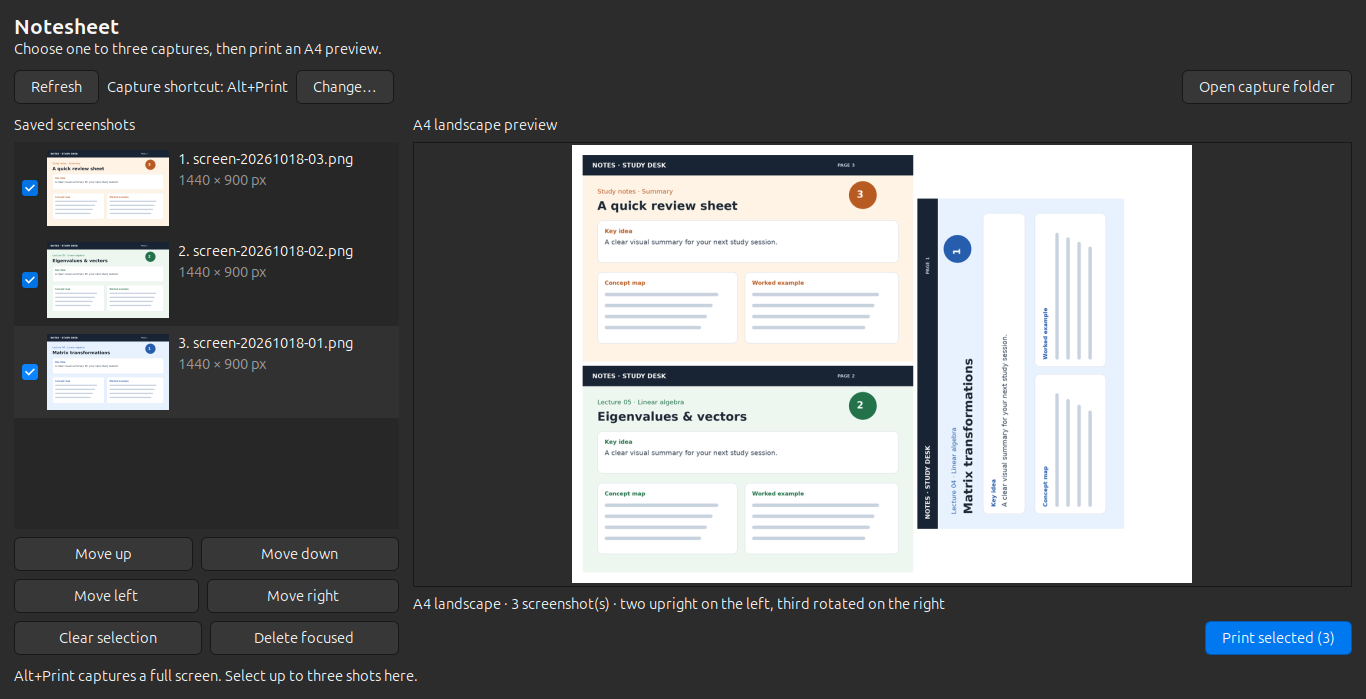
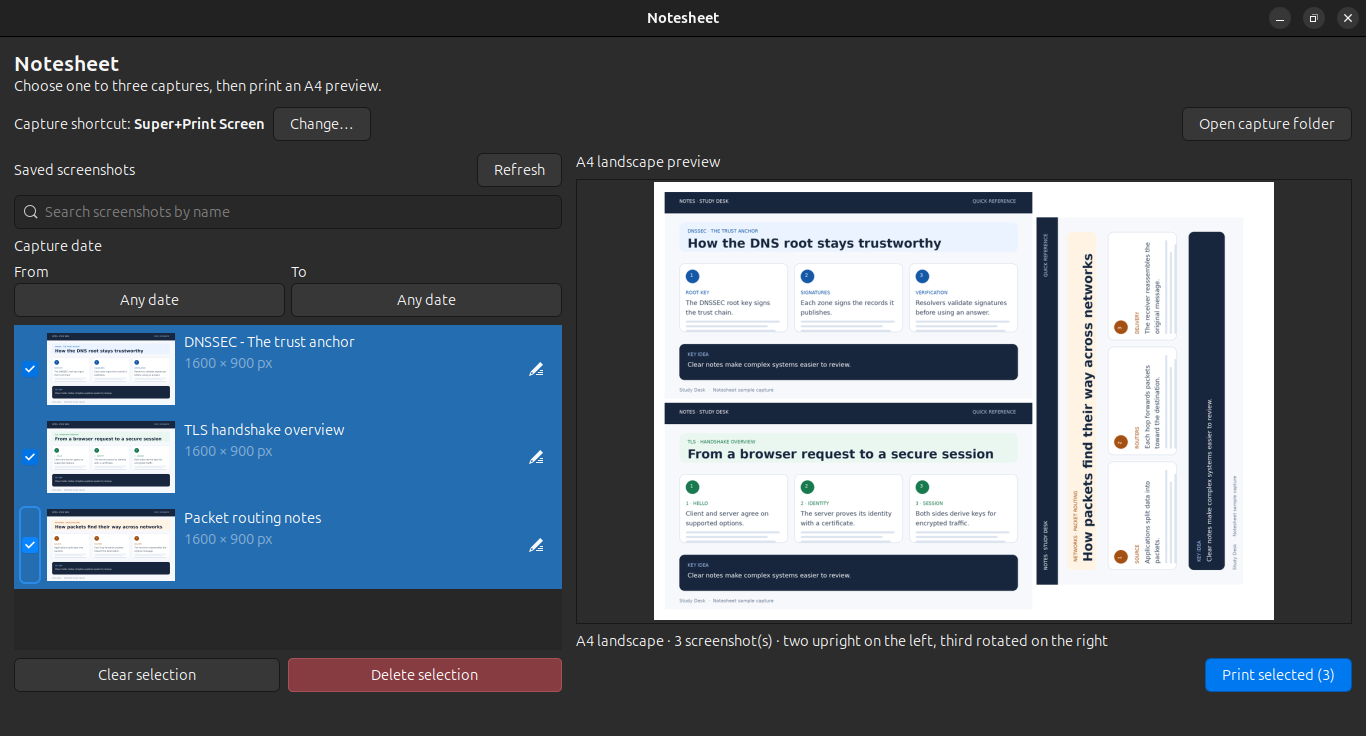
Improve screenshot library selection controls

diff --git a/notesheet.py b/notesheet.py
@@ -528,7 +528,7 @@ def run_ui() -> int:
             self.search_entry = Gtk.SearchEntry()
             self.search_entry.set_placeholder_text("Search screenshots by name")
             self.search_entry.connect(
-                "search-changed", lambda *_: self.listbox.invalidate_filter()
+                "search-changed", lambda *_: self.refresh_library(force=True)
             )
             library.pack_start(self.search_entry, False, False, 0)
 
@@ -636,6 +636,7 @@ def run_ui() -> int:
             library.pack_start(scroll, True, True, 0)
 
             library_actions = Gtk.Box(orientation=Gtk.Orientation.HORIZONTAL, spacing=8)
+            library_actions.set_margin_top(12)
             library.pack_start(library_actions, False, False, 0)
             clear_button = Gtk.Button(label="Clear selection")
             clear_button.connect("clicked", self.clear_selection)
@@ -684,7 +685,19 @@ def run_ui() -> int:
         def list_capture_paths(self) -> list[Path]:
             if not CAPTURES_DIR.exists():
                 return []
-            paths = list(CAPTURES_DIR.glob("screen-*.png"))
+            paths = sorted(
+                CAPTURES_DIR.glob("screen-*.png"),
+                key=lambda path: (capture_datetime(path), path.stat().st_mtime_ns),
+                reverse=True,
+            )
+            has_filter = (
+                bool(self.search_entry.get_text().strip())
+                or self.date_from is not None
+                or self.date_to is not None
+            )
+            if not has_filter:
+                return paths
+
             paths_by_text = {str(path): path for path in paths}
             selected = [
                 paths_by_text[path_text]
@@ -692,15 +705,15 @@ def run_ui() -> int:
                 if path_text in paths_by_text
             ]
             selected_text = {str(path) for path in selected}
-            remaining = sorted(
-                (path for path in paths if str(path) not in selected_text),
-                key=lambda path: (capture_datetime(path), path.stat().st_mtime_ns),
-                reverse=True,
-            )
-            return selected + remaining
+            return selected + [path for path in paths if str(path) not in selected_text]
 
         def inventory_key(self, paths: list[Path]) -> tuple:
-            return tuple((str(path), path.stat().st_mtime_ns, path.stat().st_size) for path in paths)
+            return tuple(
+                sorted(
+                    (str(path), path.stat().st_mtime_ns, path.stat().st_size)
+                    for path in paths
+                )
+            )
 
         def filter_capture_row(self, row, *_args) -> bool:
             query = self.search_entry.get_text().strip().casefold()
@@ -757,24 +770,20 @@ def run_ui() -> int:
             if self.date_from and self.date_to and self.date_from > self.date_to:
                 self.date_from, self.date_to = self.date_to, self.date_from
             self.update_date_filter_label()
-            self.listbox.invalidate_filter()
+            self.refresh_library(force=True)
             popover.popdown()
 
         def clear_date_filter(self, *_args) -> None:
             self.date_from = None
             self.date_to = None
             self.update_date_filter_label()
-            self.listbox.invalidate_filter()
+            self.refresh_library(force=True)
             for popover in self.date_picker_popovers.values():
                 popover.popdown()
 
         def periodic_refresh(self) -> bool:
             self.refresh_library()
             return True
-
-        def refresh_library_after_selection(self) -> bool:
-            self.refresh_library(force=True)
-            return False
 
         def refresh_library(self, force: bool = False) -> None:
             paths = self.list_capture_paths()
@@ -991,7 +1000,6 @@ def run_ui() -> int:
                     break
             self.listbox.invalidate_filter()
             self.update_preview()
-            GLib.idle_add(self.refresh_library_after_selection)
 
         def update_shortcut_label(self) -> None:
             try:

diff --git a/README.md b/README.md
@@ -1,12 +1,14 @@
 # Notesheet
 
-Notesheet captures full-screen images, lets you choose and order up to three, previews their layout on landscape A4, and prints through CUPS or saves a PDF.
+Notesheet captures full-screen images, lets you select up to three, previews their layout on landscape A4, and prints through CUPS or saves a PDF. The order in which you select captures determines their positions on the page.
 
 ## Screenshots
 
-The preview shows three sample captures arranged on an A4 sheet. The print dialog lets you choose a CUPS printer or save the sheet as a PDF.
+The screenshots show the current library and A4 preview, selected captures alongside search results, and the printer or PDF destination dialog.
 
-![Notesheet with three captures in the A4 preview](screenshots/notesheet-preview.png)
+![Notesheet with three selected captures and their A4 preview](screenshots/notesheet-preview.png)
+
+![Selected captures shown above the matching result for an active search](screenshots/notesheet-search-filter.png)
 
 ![Notesheet print and PDF options](screenshots/notesheet-print-options.png)
 
@@ -15,7 +17,7 @@ The preview shows three sample captures arranged on an A4 sheet. The print dialo
 On Ubuntu, install the runtime dependencies:
 
 ```bash
-sudo apt install python3-gi gir1.2-gtk-3.0 python3-pil cups-client xdg-user-dirs
+sudo apt install python3-gi gir1.2-gtk-3.0 python3-pil cups-client xdg-user-dirs libnotify-bin zenity
 ```
 
 Clone the repository, then launch the interface:
@@ -41,7 +43,7 @@ Each capture opens a save dialog before writing the image. Enter an optional nam
 - Captures are saved under `~/Pictures/NoteCaptures/Captures/`.
 - Screenshots are listed newest to oldest. Use the search field to filter by custom name or file name. Use the rename icon on a screenshot row to change its name; leave the name blank to use its capture timestamp.
 - Use the **From** and **To** calendar pickers to filter by an inclusive date range. Leave either limit empty for an open-ended range, or choose the same date in both pickers to show one day. Use **Clear** to show all dates again.
-- Select one to three screenshots by clicking their checkbox or the thumbnail and details area. Selected screenshots stay highlighted in blue with their checkboxes marked, appear at the top in selection order, and remain visible regardless of active search or date filters. Their selection order determines their positions on the page.
+- Select one to three screenshots by clicking their checkbox or the thumbnail and details area. Selected screenshots stay highlighted in blue with their checkboxes marked and remain visible regardless of active search or date filters. Selecting a screenshot does not move it; when a search or date filter is applied, selected screenshots appear at the top in selection order. Their selection order determines their positions on the page.
 - The A4 landscape preview updates as the selection changes. **Print selected** offers the system default printer, other CUPS queues, and **Save PDF…**. Created sheets are also kept under `~/Pictures/NoteCaptures/Sheets/`.
 - Screenshots remain in the library after printing. **Delete selection** removes all checked screenshots after confirmation.
 
